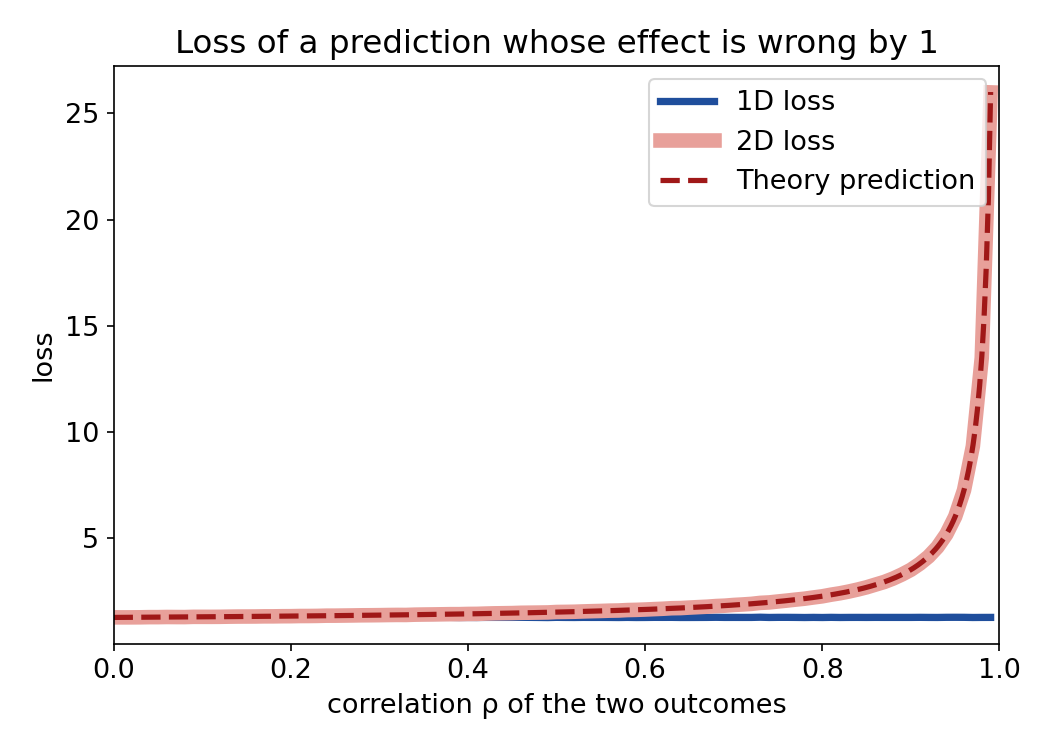
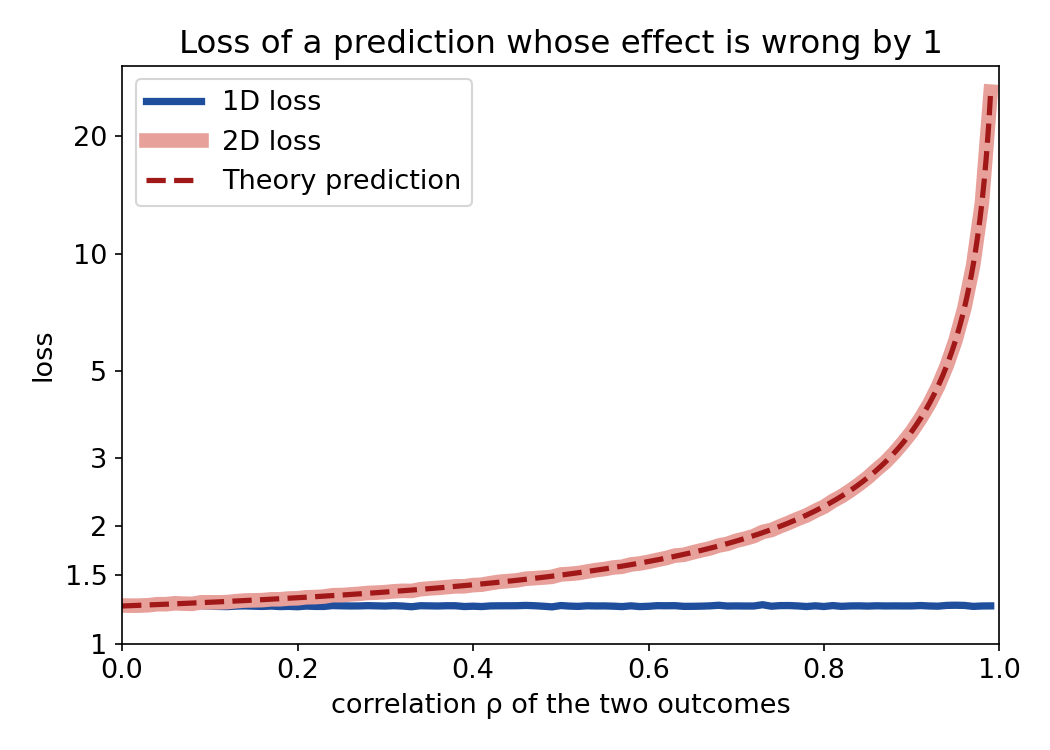
reason figure: log loss axis with plain ticks
Claude-Session: https://claude.ai/code/session_01AZV2d6TbWGuV4cMQVAXpNa

Changed region(s): [[0.061, 0.0307, 0.9752, 0.92], [0.3048, 0.8587, 0.7619, 0.9507], [0.7619, 0.8587, 0.7924, 0.92]]

diff --git a/revision/theory/loss_geometry/fig_reason.py b/revision/theory/loss_geometry/fig_reason.py
@@ -26,8 +26,9 @@ fig, ax = plt.subplots(figsize=(7, 5))
 ax.plot(rhos, L1, "-", color="#1f4e9c", lw=3.5, label="1D loss")
 ax.plot(rhos, L2, "-", color="#e8a09a", lw=7, label="2D loss")
 ax.plot(fine, theory, "--", color="#a01818", lw=2.5, label="Theory prediction")
-ax.set(xlabel="correlation ρ of the two outcomes", ylabel="loss", xlim=(0, 1),
+ax.set(xlabel="correlation ρ of the two outcomes", ylabel="loss", xlim=(0, 1), yscale="log",
        title="Loss of a prediction whose effect is wrong by 1")
+ax.set_yticks([1, 1.5, 2, 3, 5, 10, 20]); ax.set_yticklabels(["1", "1.5", "2", "3", "5", "10", "20"]); ax.minorticks_off()
 ax.legend(fontsize=13); fig.tight_layout()
 for ext in ("png", "pdf"): fig.savefig(os.path.join(OUT, f"reason.{ext}"), dpi=150)
 for r, a, b in list(zip(rhos, L1, L2))[::11]: print(f"rho {r:.2f}  1D {a:.3f}  2D {b:.3f}  predicted {1 + (a - 1) / (1 - r):.3f}")
